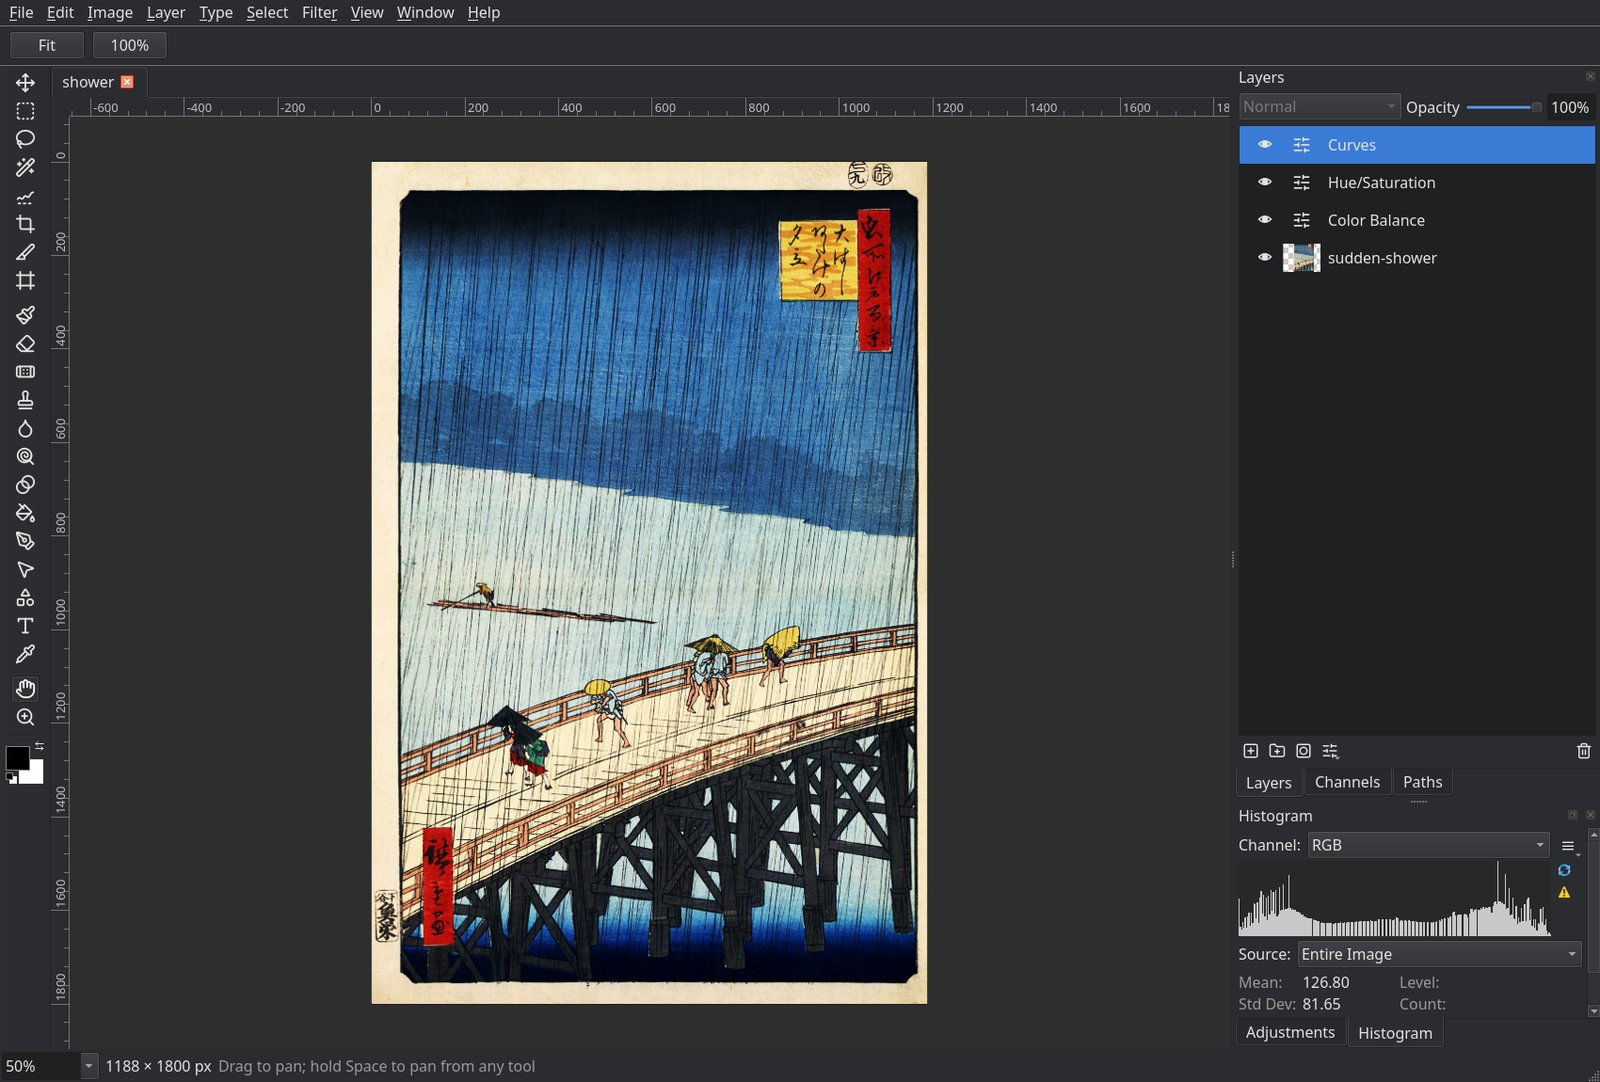
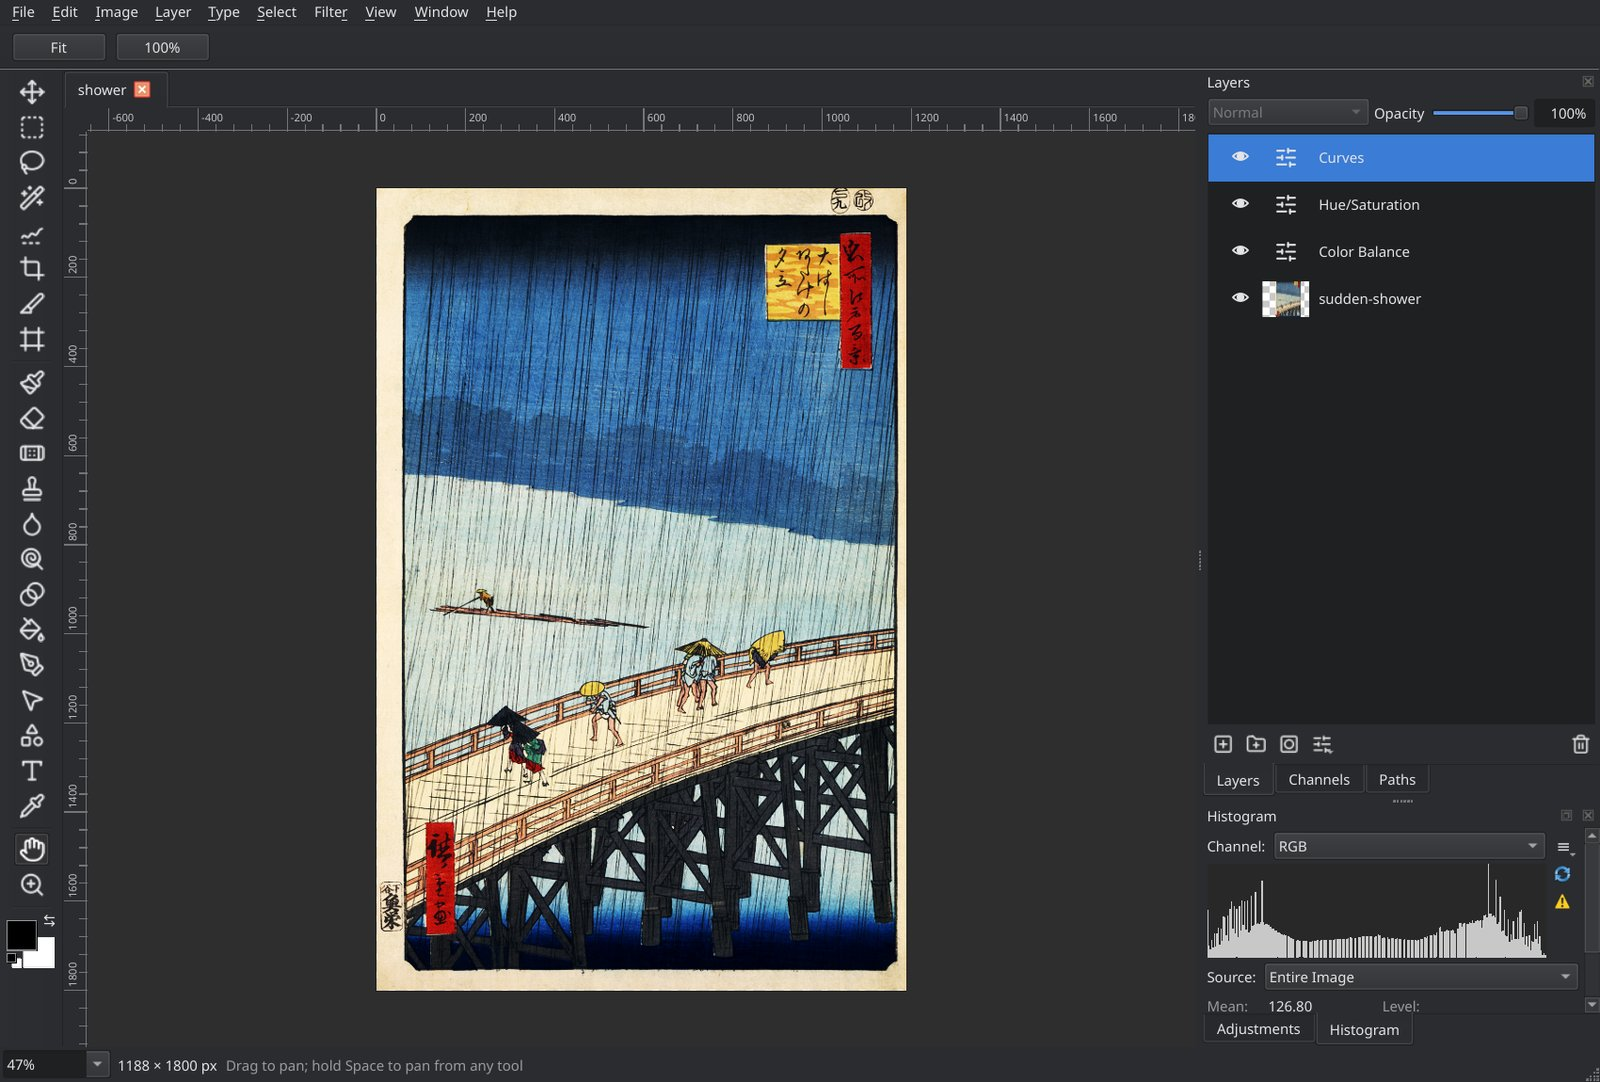
README: screenshots retaken in Fusion dark, The Great Wave as the hero
Every screenshot is taken again with the app's own neutral look (Fusion style,
dark theme, no desktop platform theme), so sliders show their tracks, at a
1.25 scale for readable text. The hero is now Hokusai's The Great Wave off
Kanagawa open as a layered document (styled type, Curves, a masked Multiply
layer), with a Japanese-UI twin; K.psd moves to the PSD section as a still
beside the round-trip animation, still credited to Nathan Lincoln.

diff --git a/README.md b/README.md
@@ -26,10 +26,9 @@
 </p>
 
 <p align="center">
-  <img src="docs/images/hero.jpg" alt="NekoPhoto with K.psd, a Photoshop file by Nathan Lincoln, open: its folders, masked layers, adjustment layers and a smart object with a Gaussian Blur Smart Filter in the Layers panel, and the Exposure adjustment layer's settings below" width="100%">
+  <img src="docs/images/hero.jpg" alt="NekoPhoto with Hokusai's The Great Wave off Kanagawa open as a layered document: two styled type layers, 神奈川沖浪裏 and THE GREAT WAVE, a Curves adjustment layer with its curve in the Adjustments panel, and Dusk, a Multiply layer whose mask keeps it to the sky" width="100%">
   <br>
-  <sub>A Photoshop file opened as Photoshop saved it: folders, masks, adjustment layers and a smart object with its Smart Filters.<br>
-  <i>K</i> by <a href="https://www.nathanlincoln.com/">Nathan Lincoln</a>, used with permission.</sub>
+  <sub>A layered document: styled type, a Curves adjustment layer and a masked Multiply layer warming the sky.<br><a href="https://commons.wikimedia.org/wiki/File:Tsunami_by_hokusai_19th_century.jpg"><i>The Great Wave off Kanagawa</i></a>, Katsushika Hokusai, c. 1830–32</sub>
 </p>
 
 <p align="center">
@@ -105,7 +104,7 @@ public-domain prints and paintings from Wikimedia Commons unless a credit says o
       Advanced settings refine edges, solve hair and fur, clean up the edge colours and run a detail pass on large photos. The background is hidden by a mask, never erased, so you can paint it back.
     </td>
     <td width="50%" valign="top">
-      <img src="docs/images/brushes.jpg" alt="A hand-drawn map painted with an imported Photoshop brush set of trees, a town, a windmill, a church, a deer and ships, above a watercolour coastline; the brush picker lists the MyPaint groups and the imported myer-settlement-brushes set" width="100%">
+      <img src="docs/images/brushes.jpg" alt="A hand-drawn map painted with an imported Photoshop brush set of trees, a town, a windmill, a deer and ships, above a watercolour coastline; the brush picker lists the MyPaint groups and the imported myer-settlement-brushes set" width="100%">
       <br>
       <sub>A map stamped with an imported Photoshop <code>.abr</code> set and a MyPaint watercolour coast.<br>Brushes: <a href="https://kmalexander.com/">“Myer Settlement Brushes”</a> by K. M. Alexander, CC0</sub>
       <h3>Paint with the brushes you already own</h3>
@@ -194,6 +193,12 @@ public-domain prints and paintings from Wikimedia Commons unless a credit says o
 The full list, with every option, is in [docs/features.md](docs/features.md).
 
 ## PSD that comes back
+
+<p align="center">
+  <img src="docs/images/k-psd.jpg" alt="K.psd, a Photoshop file by Nathan Lincoln, open in NekoPhoto: the Layers panel lists its masked layers, Exposure and Hue/Saturation adjustment layers, and a smart object with a Gaussian Blur Smart Filter; the Exposure settings are below" width="100%">
+  <br>
+  <sub>K.psd as Photoshop saved it: masks, adjustment layers and a smart object with its Smart Filters, all editable.<br><i>K</i> by <a href="https://www.nathanlincoln.com/">Nathan Lincoln</a>, used with permission.</sub>
+</p>
 
 <p align="center">
   <img src="docs/images/demo-psd-roundtrip.webp" alt="Opening K.psd by Nathan Lincoln, saved by Photoshop, with its folders, masks, Smart Filters and adjustment layers intact; fading its Exposure adjustment layer to 50%; exporting it as layered PSD; reopening it with the same 33 layers" width="560">
@@ -346,10 +351,9 @@ Interactive Pty Ltd. A few features deliberately work differently from Photoshop
 </p>
 
 <p align="center">
-  <img src="docs/images/hero-ja.jpg" alt="日本語表示の NekoPhoto で Nathan Lincoln の Photoshop ファイル K.psd を開いたところ。レイヤーパネルにグループ、マスク付きのレイヤー、調整レイヤー、スマートフィルター付きのスマートオブジェクトが並んでいる" width="100%">
+  <img src="docs/images/hero-ja.jpg" alt="日本語表示の NekoPhoto で北斎『神奈川沖浪裏』をレイヤー付きのドキュメントとして開いたところ。レイヤースタイル付きのテキスト「神奈川沖浪裏」と THE GREAT WAVE、トーンカーブの調整レイヤー、マスクで空だけにかかる乗算のレイヤー Dusk、右下にヒストグラムパネル" width="100%">
   <br>
-  <sub>日本語表示で、Photoshop で保存されたファイルをそのまま開いたところ(グループ・マスク・調整レイヤー・スマートフィルター付きのスマートオブジェクト)。<br>
-  作品: <a href="https://www.nathanlincoln.com/">Nathan Lincoln</a>『K』(許可を得て使用)</sub>
+  <sub>日本語表示で編集中のドキュメント: スタイル付きのテキスト、トーンカーブの調整レイヤー、マスクで空だけを温める乗算のレイヤー。<br><a href="https://commons.wikimedia.org/wiki/File:Tsunami_by_hokusai_19th_century.jpg">葛飾北斎『冨嶽三十六景 神奈川沖浪裏』</a>(1830〜32 年頃)</sub>
 </p>
 
 <p align="center">
@@ -420,7 +424,7 @@ Interactive Pty Ltd. A few features deliberately work differently from Photoshop
       詳細設定では境界の調整、髪や毛並みの処理、境界の色の除去、大きな写真のための精細パスが使えます。背景は消すのではなくマスクで隠すので、描き戻すこともできます。
     </td>
     <td width="50%" valign="top">
-      <img src="docs/images/brushes.jpg" alt="読み込んだ Photoshop ブラシセットの木・町・風車・教会・鹿・船で描いた地図と水彩の海岸線。ブラシピッカーに MyPaint のグループと読み込んだ myer-settlement-brushes が並ぶ" width="100%">
+      <img src="docs/images/brushes.jpg" alt="読み込んだ Photoshop ブラシセットの木・町・風車・鹿・船で描いた地図と水彩の海岸線。ブラシピッカーに MyPaint のグループと読み込んだ myer-settlement-brushes が並ぶ" width="100%">
       <br>
       <sub>読み込んだ Photoshop の <code>.abr</code> ブラシセットと MyPaint の水彩で描いた地図。<br>ブラシ: K. M. Alexander による <a href="https://kmalexander.com/">「Myer Settlement Brushes」</a>(CC0)</sub>
       <h3>いつものブラシで描く</h3>
@@ -507,6 +511,12 @@ Interactive Pty Ltd. A few features deliberately work differently from Photoshop
 機能の一覧は [docs/features.md](docs/features.md#日本語) にあります。
 
 ### PSD はそのまま戻ってくる
+
+<p align="center">
+  <img src="docs/images/k-psd.jpg" alt="Nathan Lincoln の Photoshop ファイル K.psd を NekoPhoto で開いたところ。レイヤーパネルにマスク付きのレイヤー、露光量と色相・彩度の調整レイヤー、ぼかし(ガウス)のスマートフィルター付きのスマートオブジェクトが並び、下に露光量の設定" width="100%">
+  <br>
+  <sub>Photoshop で保存されたままの K.psd: マスク、調整レイヤー、スマートフィルター付きのスマートオブジェクトをすべて編集できます(画面は英語表示)。<br>作品: <a href="https://www.nathanlincoln.com/">Nathan Lincoln</a>『K』(許可を得て使用)</sub>
+</p>
 
 <p align="center">
   <img src="docs/images/demo-psd-roundtrip.webp" alt="Nathan Lincoln の Photoshop で保存された K.psd を開き、グループ・マスク・スマートフィルター・調整レイヤーがそのまま残っていることを確認し、露光量の調整レイヤーの不透明度を 50% に下げ、レイヤー付き PSD に書き出して開き直し、同じ 33 レイヤーを確認するところ" width="560">
